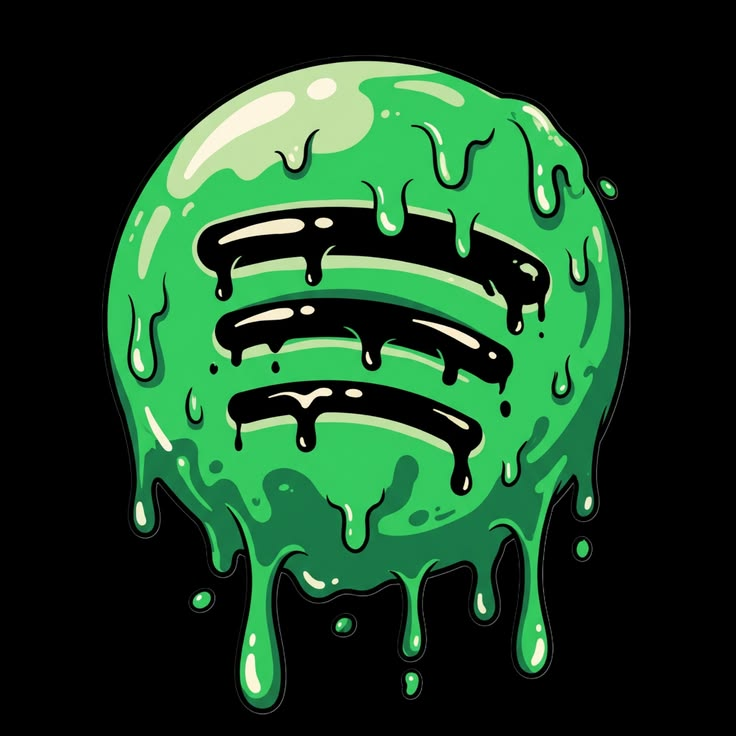
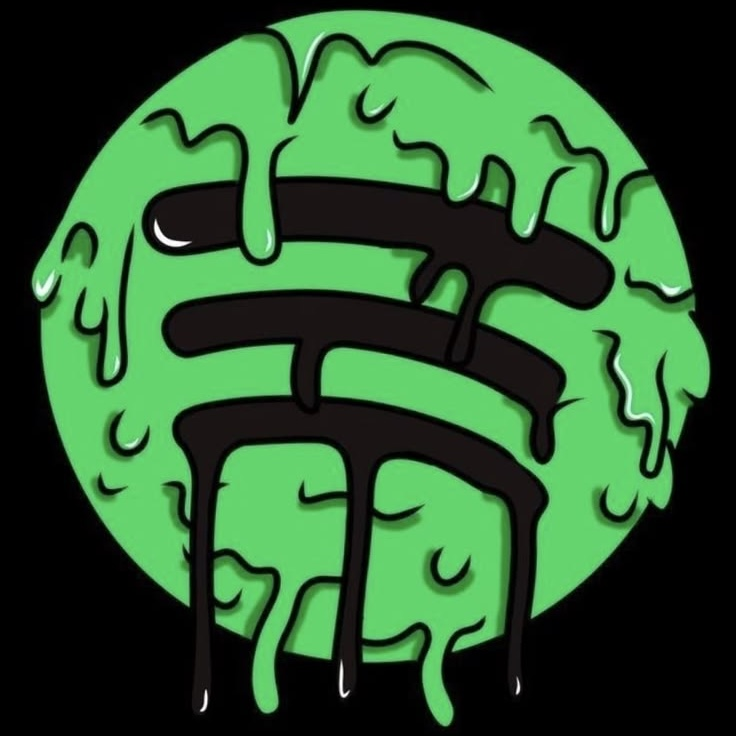
cleanup

diff --git a/README.md b/README.md
@@ -7,7 +7,7 @@
 ---
 
 <a href="mailto:your-email@example.com"><img align="right" src="./assets/_ (10).jpeg" height="25" /></a>
-<a href="https://linkedin.com"><img align="right" src="./assets/alien-2.jpeg" height="25" style="margin-right: 15px;" /></a>
+<a href="https://linkedin.com"><img align="right" src="./assets/spotify-icon-1.jpeg" height="25" style="margin-right: 8px; border-radius: 80p;x" /></a>
 <a href="https://github.com"><img align="right" src="./assets/art-2.jpeg" height="25" style="margin-right: 15px;" /></a>
 
 <blockquote>
